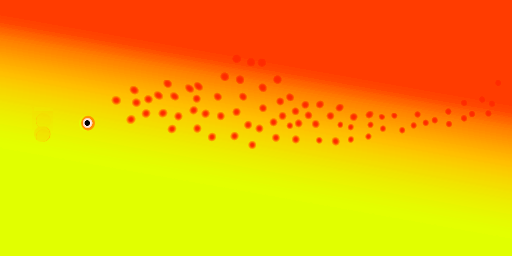
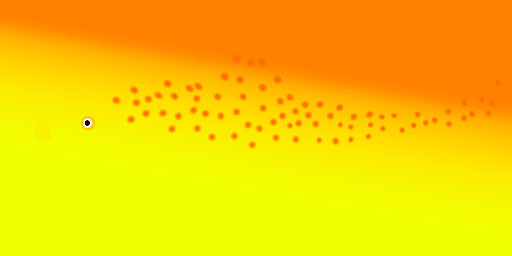
updated fish texture, lowered saturation, boids y direction  normalized,

diff --git a/test.js b/test.js
@@ -80,7 +80,7 @@ export class Test extends Component {
     this.sceneObjects = [];
     this.sceneObjects.push(new objects.WaterPlane(this.shapes.plane, this.materials.water, Mat4.translation(this.uniforms.camera_transform[0][3], 20, this.uniforms.camera_transform[2][3]), "water", "forward", "TRIANGLE_STRIP", false));
     this.sceneObjects.push(new utils.SceneObject(this.shapes.ball, { ...this.materials.plastic, color: color(.09 / 2, 0.195 / 2, 0.33 / 2, 1.0), ambient: 1.0, diffusivity: 0.0, specularity: 0.0 }, Mat4.scale(500, 500, 500), "skybox", "forward"));
-    this.sceneObjects.push(new utils.SceneObject(this.shapes.plane, this.materials.sand, Mat4.translation(0, -80, 0).times(Mat4.scale(10, 1, 10)), "ground", "deferred", "TRIANGLE_STRIP", false, this.materials.basicShadow));
+    this.sceneObjects.push(new utils.SceneObject(this.shapes.plane, this.materials.geometryMaterial, Mat4.translation(0, -80, 0).times(Mat4.scale(10, 1, 10)), "ground", "deferred", "TRIANGLE_STRIP", false, this.materials.basicShadow));
     // this.sceneObjects.push(new objects.trout(this.shapes.trout, this.materials.trout, Mat4.identity(), "trout", "deferred", "TRIANGLES", true, this.materials.fishShadow));
     // this.sceneObjects.push(new utils.SceneObject(this.shapes.ball, this.materials.geometryMaterial, Mat4.translation(-10, 0, 0).times(Mat4.scale(3, 3, 3)), "ball", "deferred", "TRIANGLES", true, this.materials.basicShadow));
     // this.sceneObjects.push(new utils.SceneObject(this.shapes.shark, this.materials.shark, Mat4.translation(-30, 0, 0).times(Mat4.scale(5, 5, 5)), "shark", "deferred", "TRIANGLES", true, this.materials.basicShadow));
@@ -163,7 +163,7 @@ export class Test extends Component {
     };
 
     this.materials.sand = { shader: new shaders.GeometryShaderTextured(), ambientScale: 1 / 5, textureScale: 100, texAlbedo: new Texture("assets/textures/sand/sand_albedo.png"), texARM: new Texture("assets/textures/sand/sand_arm.png"), texNormal: new Texture("assets/textures/sand/sand_norm.png") };
-    this.materials.trout = { shader: new shaders.FishGeometryShader(), texAlbedo: new Texture('assets/meshes/trout/CoralTrout.png'), roughness: 0.8, metallic: 0.35, ambient: 2.0 };
+    this.materials.trout = { shader: new shaders.FishGeometryShader(), texAlbedo: new Texture('assets/meshes/trout/troutAlbedo.png'), roughness: 0.8, metallic: 0.35, ambient: 2.0 };
     this.materials.shark = { shader: new shaders.GeometryShaderTexturedMinimal(), texAlbedo: new Texture('/assets/meshes/shark/GreatWhiteShark.png'), roughness: 0.8, metallic: 0.35, ambient: 2.0 };
   }
 

diff --git a/objects.js b/objects.js
@@ -30,7 +30,7 @@ objects.boidsController = class boidsController extends utils.SceneObject {
         this.numBoids = numBoids;
 
         this.boids = [];
-        const initVel = vec3((Math.random() - 0.5) * 5, (Math.random() - 0.5) * 5, (Math.random() - 0.5) * 5);
+        const initVel = vec3((Math.random() - 0.5) * 5, (Math.random() - 0.5) * 1, (Math.random() - 0.5) * 5);
         for (let i = 0; i < numBoids; i++) {
             const initPos = vec3(10 * (Math.random() - 0.5) + center[0], 10 * (Math.random() - 0.5) + center[1], 10 * (Math.random() - 0.5) + center[2]);
             this.boids.push(new Particle(3, initPos, "symplectic", false, initVel));

diff --git a/shaders.js b/shaders.js
@@ -1236,7 +1236,7 @@ shaders.CopyToDefaultFB = class CopyToDefaultFB extends tiny.Shader {
 
       //hsv tonemapping
       color = rgb2hsv(color);
-      color.y *= 1.6;
+      color.y *= 1.4;
       color.z *= 1.6;
       color = hsv2rgb(color);
     
